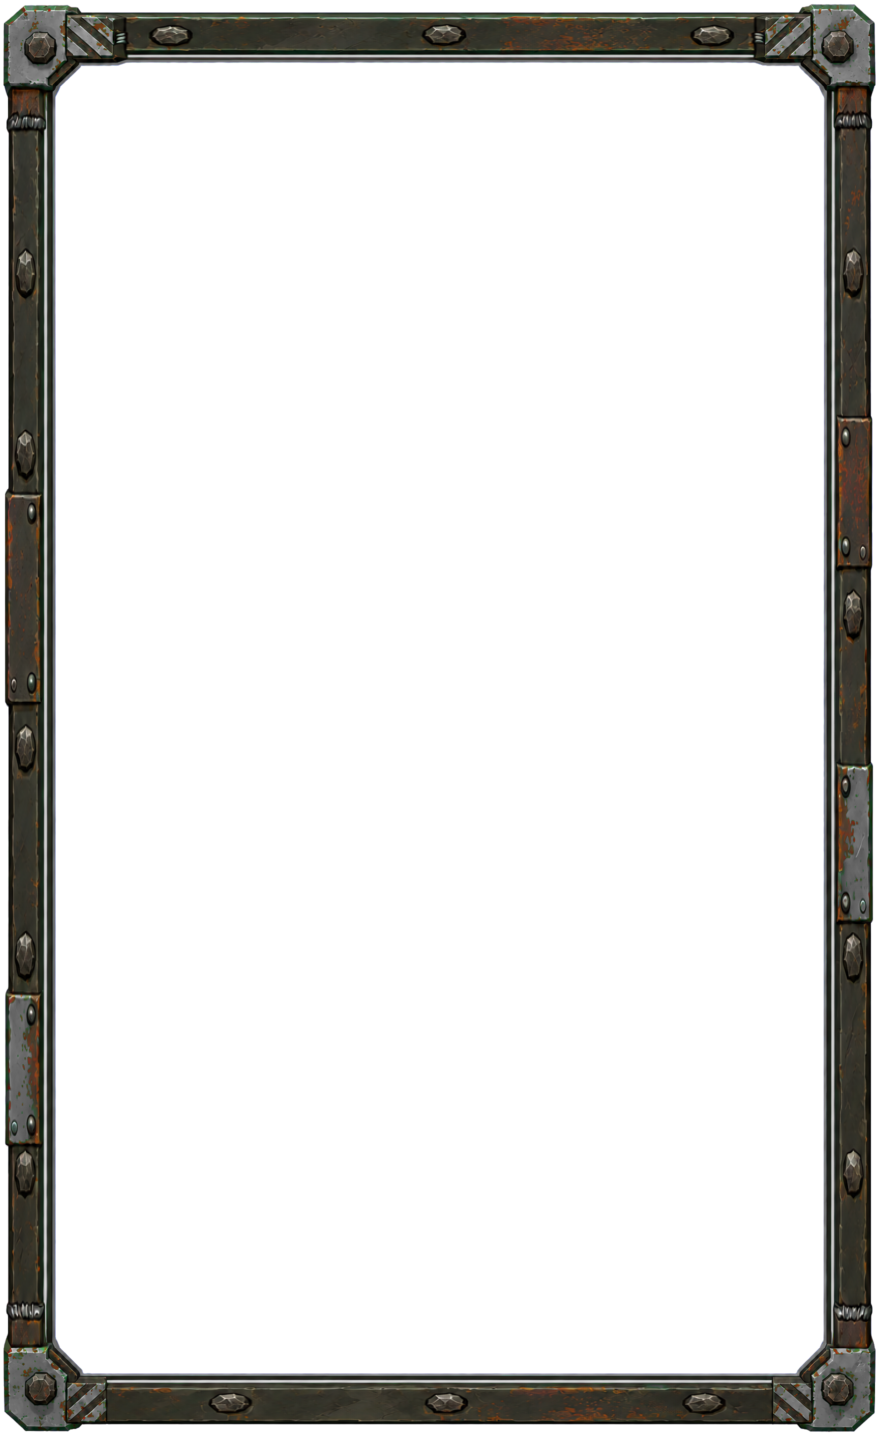
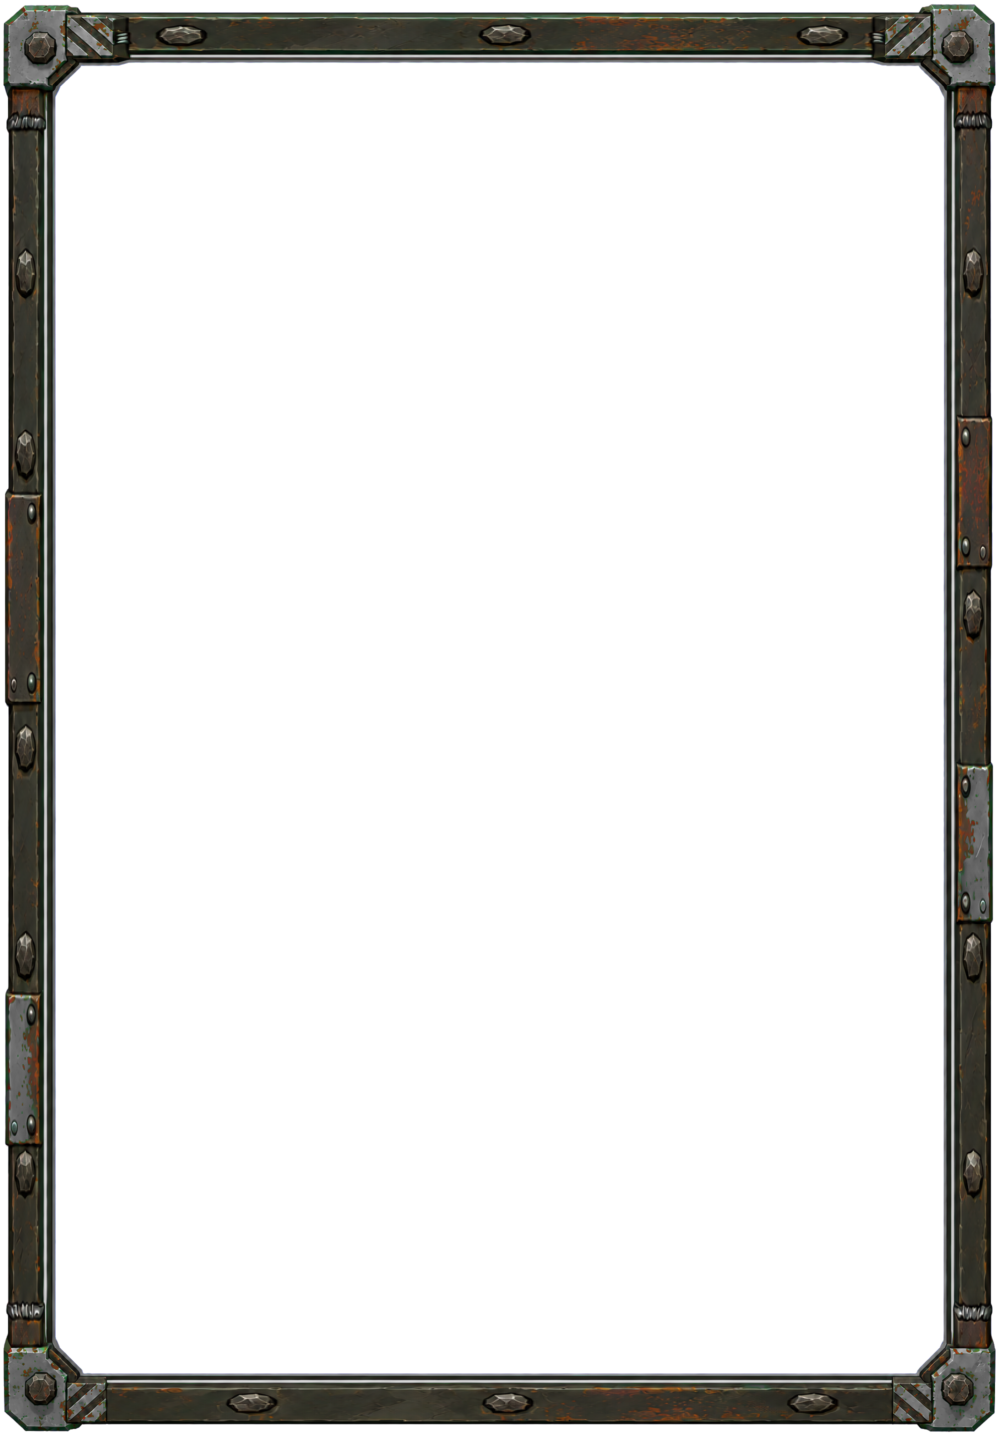
task-177-01-wider-upgrade-cards: frames re-baked at 1000 x 1440 (cards 500 x 720)

diff --git a/Tools/art/card_frame_bake.js b/Tools/art/card_frame_bake.js
@@ -2,7 +2,7 @@
 // Node 18+, no dependencies (PNG codec from ui_icon_prepare.js).
 //
 // Usage:
-//   node Tools/art/card_frame_bake.js [--scale 0.5] [--width 880] [--height 1440]
+//   node Tools/art/card_frame_bake.js [--scale 0.5] [--width 1000] [--height 1440]
 // Bakes Art/UI/Cards/T_CardFrame_{Stat,Stat_Accents,Stat_Glow,Weapon}.png (1086 x 1448) to
 // T_CardFrame_*_Baked.png: 9-slice compose with the corners scaled uniformly by s, edge bands stretched
 // along their length only, centre stretched. Resampling is a premultiplied tent/area filter (no nearest).
@@ -143,7 +143,7 @@ function outline(canvas, ox, oy, o) {
 }
 
 function main() {
-  const s = arg('scale', 0.5), W = arg('width', 880), H = arg('height', 1440);
+  const s = arg('scale', 0.5), W = arg('width', 1000), H = arg('height', 1440);
   const baked = {}, ops = {}, report = { scale: s, size: `${W}x${H}`, frames: {} };
   for (const [name, m] of LAYERS) {
     const src = decodePng(path.join(DIR, name + '.png'));
